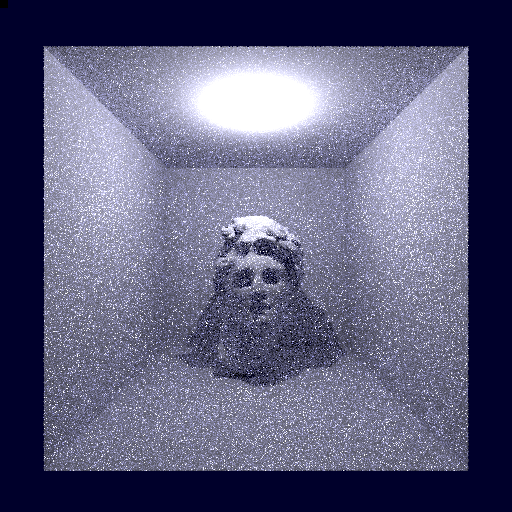
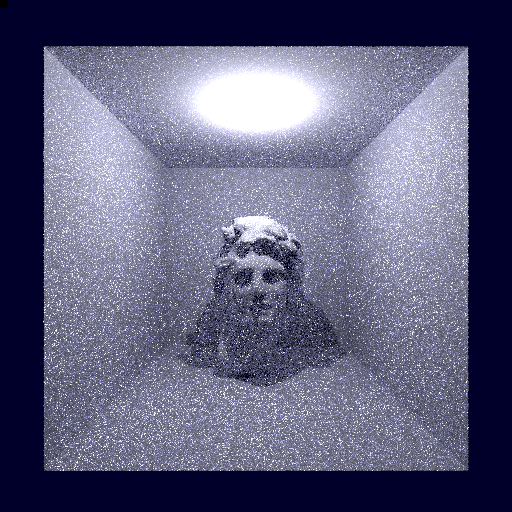
switch triangle intersect to multinum

diff --git a/src/engine/intersectable.rs b/src/engine/intersectable.rs
@@ -19,11 +19,8 @@ use std::rc::Rc;
 use std::f32;
 
 use self::cgmath::Transform;
-
-//TODO this file into
-//intersectable.rs
-//transformable.rs
-//triangle.rs
+use engine::intersect_util::IntersectionResult;
+use utilities::multi_math::MultiNum1;
 
 pub enum IntersectionOrderKind {
     FirstIntersection,
@@ -31,9 +28,9 @@ pub enum IntersectionOrderKind {
 }
 
 pub struct IntersectionArgs<'a> {
-    #[cfg(target_feature = "avx")]
-    pub ray: &'a SimdRay,
-    #[cfg(not(target_feature = "avx"))]
+//    #[cfg(target_feature = "avx")]
+//    pub ray: &'a SimdRay,
+//    #[cfg(not(target_feature = "avx"))]
     pub ray: &'a Ray,
     pub record: &'a mut IntersectionRecord,
     pub intersection_order: IntersectionOrderKind
@@ -138,7 +135,7 @@ impl HasSurfaceArea for TriangleWithAABoundingBox {
 }
 
 #[derive(Debug)]
-#[cfg(not(target_feature = "avx"))]
+//#[cfg(not(target_feature = "avx"))]
 pub struct IntersectableTriangle {
     triangle: Rc<Triangle>,
     position_0: Vec3,
@@ -146,17 +143,17 @@ pub struct IntersectableTriangle {
     edge2: Vec3
 }
 
-#[derive(Debug)]
-#[cfg(target_feature = "avx")]
-pub struct IntersectableTriangle {
-    triangle: Rc<Triangle>,
-    position_0: SimdFloat4,
-    edge1: SimdFloat4,
-    edge2: SimdFloat4,
-}
+//#[derive(Debug)]
+//#[cfg(target_feature = "avx")]
+//pub struct IntersectableTriangle {
+//    triangle: Rc<Triangle>,
+//    position_0: SimdFloat4,
+//    edge1: SimdFloat4,
+//    edge2: SimdFloat4,
+//}
 
 impl IntersectableTriangle {
-    #[cfg(not(target_feature = "avx"))]
+//    #[cfg(not(target_feature = "avx"))]
     pub fn new_from_triangle(triangle: &Triangle) -> IntersectableTriangle {
         let triangle_ptr = Rc::new(triangle.clone());
         let edge1 = triangle.positions[1].accurate_subtraction(&triangle.positions[0]);
@@ -169,83 +166,55 @@ impl IntersectableTriangle {
         }
     }
 
-    #[cfg(target_feature = "avx")]
-    pub fn new_from_triangle(triangle: &Triangle) -> IntersectableTriangle {
-        let triangle_ptr = Rc::new(triangle.clone());
-        let edge1 = triangle.positions[1].accurate_subtraction(&triangle.positions[0]);
-        let edge2 = triangle.positions[2].accurate_subtraction(&triangle.positions[0]);
-        IntersectableTriangle {
-            triangle: triangle_ptr,
-            position_0: triangle.positions[0].into(),
-            edge1: edge1.into(),
-            edge2: edge2.into(),
-        }
-    }
+//    #[cfg(target_feature = "avx")]
+//    pub fn new_from_triangle(triangle: &Triangle) -> IntersectableTriangle {
+//        let triangle_ptr = Rc::new(triangle.clone());
+//        let edge1 = triangle.positions[1].accurate_subtraction(&triangle.positions[0]);
+//        let edge2 = triangle.positions[2].accurate_subtraction(&triangle.positions[0]);
+//        IntersectableTriangle {
+//            triangle: triangle_ptr,
+//            position_0: triangle.positions[0].into(),
+//            edge1: edge1.into(),
+//            edge2: edge2.into(),
+//        }
+//    }
 
 }
 
 impl Intersectable for IntersectableTriangle {
     // TODO consider creating a simd version of this SoA style and benchmark
     fn intersect(&self, args: IntersectionArgs) -> bool {
+        use super::intersect_util;
+
         let ray = args.ray;
         let record = args.record;
-
-        let ray_normalized_direction = if_avx!(
-            avx = ray.direction,
-            noavx = *ray.direction.value()
-        );
-
-        let cross = if_avx!(
-            avx = |a: SimdFloat4, b| a.vec3_cross(b),
-            noavx = |a: Vec3, b| a.cross(b)
-        );
-
-        let dot = if_avx! (
-            avx = |a: SimdFloat4, b| a.vec3_dot(b),
-            noavx = |a: Vec3, b| a.dot(b)
-        );
 
         let edge1 = self.edge1;
         let edge2 = self.edge2;
 
-        let h = cross(ray_normalized_direction, edge2);
-        let a = dot(edge1, h);
-
-        if apprx_eq(a, 0.0, f32::EPSILON) {
-            return false;
-        }
-
-        let f = 1.0 / a;
-        let s = ray.position - self.position_0;
-
-        let u = f * dot(s, h);
-
-        if u < 0.0 || u > 1.0 {
-            return false;
-        }
-
-        let q = cross(s, edge1);
-        let v = f * dot(ray_normalized_direction, q);
-        if v < 0.0 || u + v > 1.0 {
-            return false;
-        }
-
-        //let t = f * dot(edge2, q);
-        let n = cross(edge1, edge2);
-        let t = dot(-s, n) / dot(ray_normalized_direction, n);
-        if t < ray.t_range.start || ray.t_range.end <= t || t >= record.t {
-            return false;
-        }
-
-        let beta = u;
-        let gamma = v;
-        let alpha = 1.0 - beta - gamma;
-        let t_multiplier = if_avx!(
-            avx = SimdFloat4::new(t,t,t,t),
-            noavx = t
+        let mut intersect_result = IntersectionResult::new();
+        let intersected = intersect_util::intersect_triangle::<MultiNum1>(
+            args.ray,
+            &mut intersect_result,
+            &self.position_0,
+            &self.edge1,
+            &self.edge2
         );
 
-        let position = (ray.position + t_multiplier * ray_normalized_direction).into();
+        if !intersected {
+            return false
+        }
+
+        if record.t < intersect_result.t {
+            return false
+        }
+
+        let beta = intersect_result.beta;
+        let gamma = intersect_result.gamma;
+        let alpha = intersect_result.alpha();
+        let t = intersect_result.t;
+
+        let position = (ray.position + t * ray.direction.value()).into();
 
         *record = IntersectionRecord {
             position,
@@ -255,7 +224,7 @@ impl Intersectable for IntersectableTriangle {
             t: t,
             shader: Some(self.triangle.shader.clone())
         };
-        return true;
+        return true
     }
 
 }

diff --git a/src/engine/intersect_util.rs b/src/engine/intersect_util.rs
@@ -12,11 +12,20 @@ pub struct IntersectionResult<N: MultiNum> {
 }
 
 impl<N: MultiNum> IntersectionResult<N> {
+    pub fn new() -> IntersectionResult<N> {
+        IntersectionResult {
+            t: N::scalar_inf(),
+            beta: N::scalar_inf(),
+            gamma: N::scalar_inf()
+        }
+    }
+
     pub fn alpha(&self) -> N::Scalar {
         N::scalar_one() - self.beta - self.gamma
     }
 }
 
+// TODO refactor return IntersectionResult & benchmark
 #[inline]
 pub fn intersect_triangle<N: MultiNum>(
     ray: &RayBase<N>,
@@ -39,8 +48,8 @@ pub fn intersect_triangle<N: MultiNum>(
     let u = f * s.op_dot(h);
 
     let u_lt_zero = N::scalar_cmp::<cmp::Lt>(u, N::scalar_zero());
-    let u_gt_zero = N::scalar_cmp::<cmp::Gt>(u, N::scalar_zero());
-    let u_out_of_bounds = N::bool_or(u_lt_zero, u_gt_zero);
+    let u_gt_one = N::scalar_cmp::<cmp::Gt>(u, N::scalar_one());
+    let u_out_of_bounds = N::bool_or(u_lt_zero, u_gt_one);
     if N::all_true(u_out_of_bounds) {
         return N::create_bool_repeating(false)
     }
@@ -54,11 +63,11 @@ pub fn intersect_triangle<N: MultiNum>(
         return N::create_bool_repeating(false)
     }
 
-    let n = edge1.op_cross(*edge2);
+    let n = edge1.op_cross(*edge2).op_normalized();
     let t = (-s).op_dot(n) / ray.direction.value().op_dot(n);
     let t_lt_range_start = N::scalar_cmp::<cmp::Lt>(t, ray.t_range.start);
-    let t_lte_range_end = N::scalar_cmp::<cmp::Lte>(t, ray.t_range.end);
-    let t_out_of_bounds = N::bool_or(t_lt_range_start, t_lte_range_end);
+    let t_gte_range_end = N::scalar_cmp::<cmp::Gte>(t, ray.t_range.end);
+    let t_out_of_bounds = N::bool_or(t_lt_range_start, t_gte_range_end);
     if N::all_true(t_out_of_bounds) {
         return N::create_bool_repeating(false)
     }
@@ -73,5 +82,5 @@ pub fn intersect_triangle<N: MultiNum>(
         N::bool_or(t_out_of_bounds,
                    N::bool_or(u_out_of_bounds, uv_out_of_bounds));
 
-    is_invalid_intersection
+    N::bool_not(is_invalid_intersection)
 }

diff --git a/src/utilities/simd.rs b/src/utilities/simd.rs
@@ -9,7 +9,7 @@ use super::cmp_util::CmpFn;
 use std::mem;
 use std::ops::{
     Add, Sub, Mul,
-    Range, Neg, Div
+    Range, Neg, Div, Not
 };
 
 use utilities::multi_math::Sqrt;
@@ -31,13 +31,40 @@ macro_rules! impl_simd_trait {
                 $binop8(self, rhs)
             }
         }
-    }
+    };
+    {trait_name = $tn:ty, fnname = $fnname:ident, unop4 = $unop4:expr, unop8 = $unop8:expr} => {
+        #[cfg(all(target_arch = "x86_64", target_feature = "sse2"))]
+        impl $tn for SimdFloat4 {
+            type Output = SimdFloat4;
+            fn $fnname(self) -> SimdFloat4 {
+                $unop4(self)
+            }
+        }
+
+        #[cfg(all(target_arch = "x86_64", target_feature = "avx"))]
+        impl $tn for SimdFloat8 {
+            type Output = SimdFloat8;
+            fn $fnname(self) -> SimdFloat8 {
+                $unop8(self)
+            }
+        }
+    };
 }
 
 impl_simd_trait! {
     trait_name = Div, fnname = div,
     binop4 = |a: SimdFloat4, b: SimdFloat4| unsafe { intrin::_mm_div_ps(a.0, b.0).into() },
     binop8 = |a: SimdFloat8, b: SimdFloat8| unsafe { intrin::_mm256_div_ps(a.0, b.0).into() }
+}
+
+impl_simd_trait! {
+    trait_name = Not, fnname = not,
+    unop4 = |a: SimdFloat4| unsafe {
+        intrin::_mm_andnot_ps(a.0, SimdFloat4::new_bool_repeating(true).0).into()
+    },
+    unop8 = |a: SimdFloat8| unsafe {
+        intrin::_mm256_andnot_ps(a.0, SimdFloat8::new_bool_repeating(true).0).into()
+    }
 }
 
 #[cfg(target_arch = "x86_64")]

diff --git a/src/utilities/multi_math.rs b/src/utilities/multi_math.rs
@@ -124,6 +124,7 @@ pub trait MultiNum {
 
     fn create_bool_repeating(value: bool) -> Self::Bool;
     fn bool_or(a: Self::Bool, b: Self::Bool) -> Self::Bool;
+    fn bool_not(a: Self::Bool) -> Self::Bool;
 }
 
 pub struct MultiNum1;
@@ -155,6 +156,10 @@ impl MultiNum for MultiNum1 {
 
     fn bool_or(a: Self::Bool, b: Self::Bool) -> Self::Bool {
         a || b
+    }
+
+    fn bool_not(a: Self::Bool) -> Self::Bool {
+        !a
     }
 }
 
@@ -190,6 +195,10 @@ impl MultiNum for MultiNum4 {
     fn bool_or(a: Self::Bool, b: Self::Bool) -> Self::Bool {
         a.bitwise_or(b)
     }
+
+    fn bool_not(a: Self::Bool) -> Self::Bool {
+        !a
+    }
 }
 
 #[cfg(target_feature = "avx")]
@@ -223,6 +232,10 @@ impl MultiNum for MultiNum8 {
 
     fn bool_or(a: Self::Bool, b: Self::Bool) -> Self::Bool {
         a.bitwise_or(b)
+    }
+
+    fn bool_not(a: Self::Bool) -> Self::Bool {
+        !a
     }
 }
 

diff --git a/src/engine/scene.rs b/src/engine/scene.rs
@@ -80,9 +80,9 @@ impl Scene {
         let index_ranges = self.intersection_accel.intersect_boxes(ray);
         let mut record = IntersectionRecord::no_intersection();
 
-        #[cfg(target_feature = "avx")]
-        let intersection_ray = &SimdRay::new(ray);
-        #[cfg(not(target_feature = "avx"))]
+//        #[cfg(target_feature = "avx")]
+//        let intersection_ray = &SimdRay::new(ray);
+//        #[cfg(not(target_feature = "avx"))]
         let intersection_ray = ray;
 
         'outer: for range in index_ranges {
